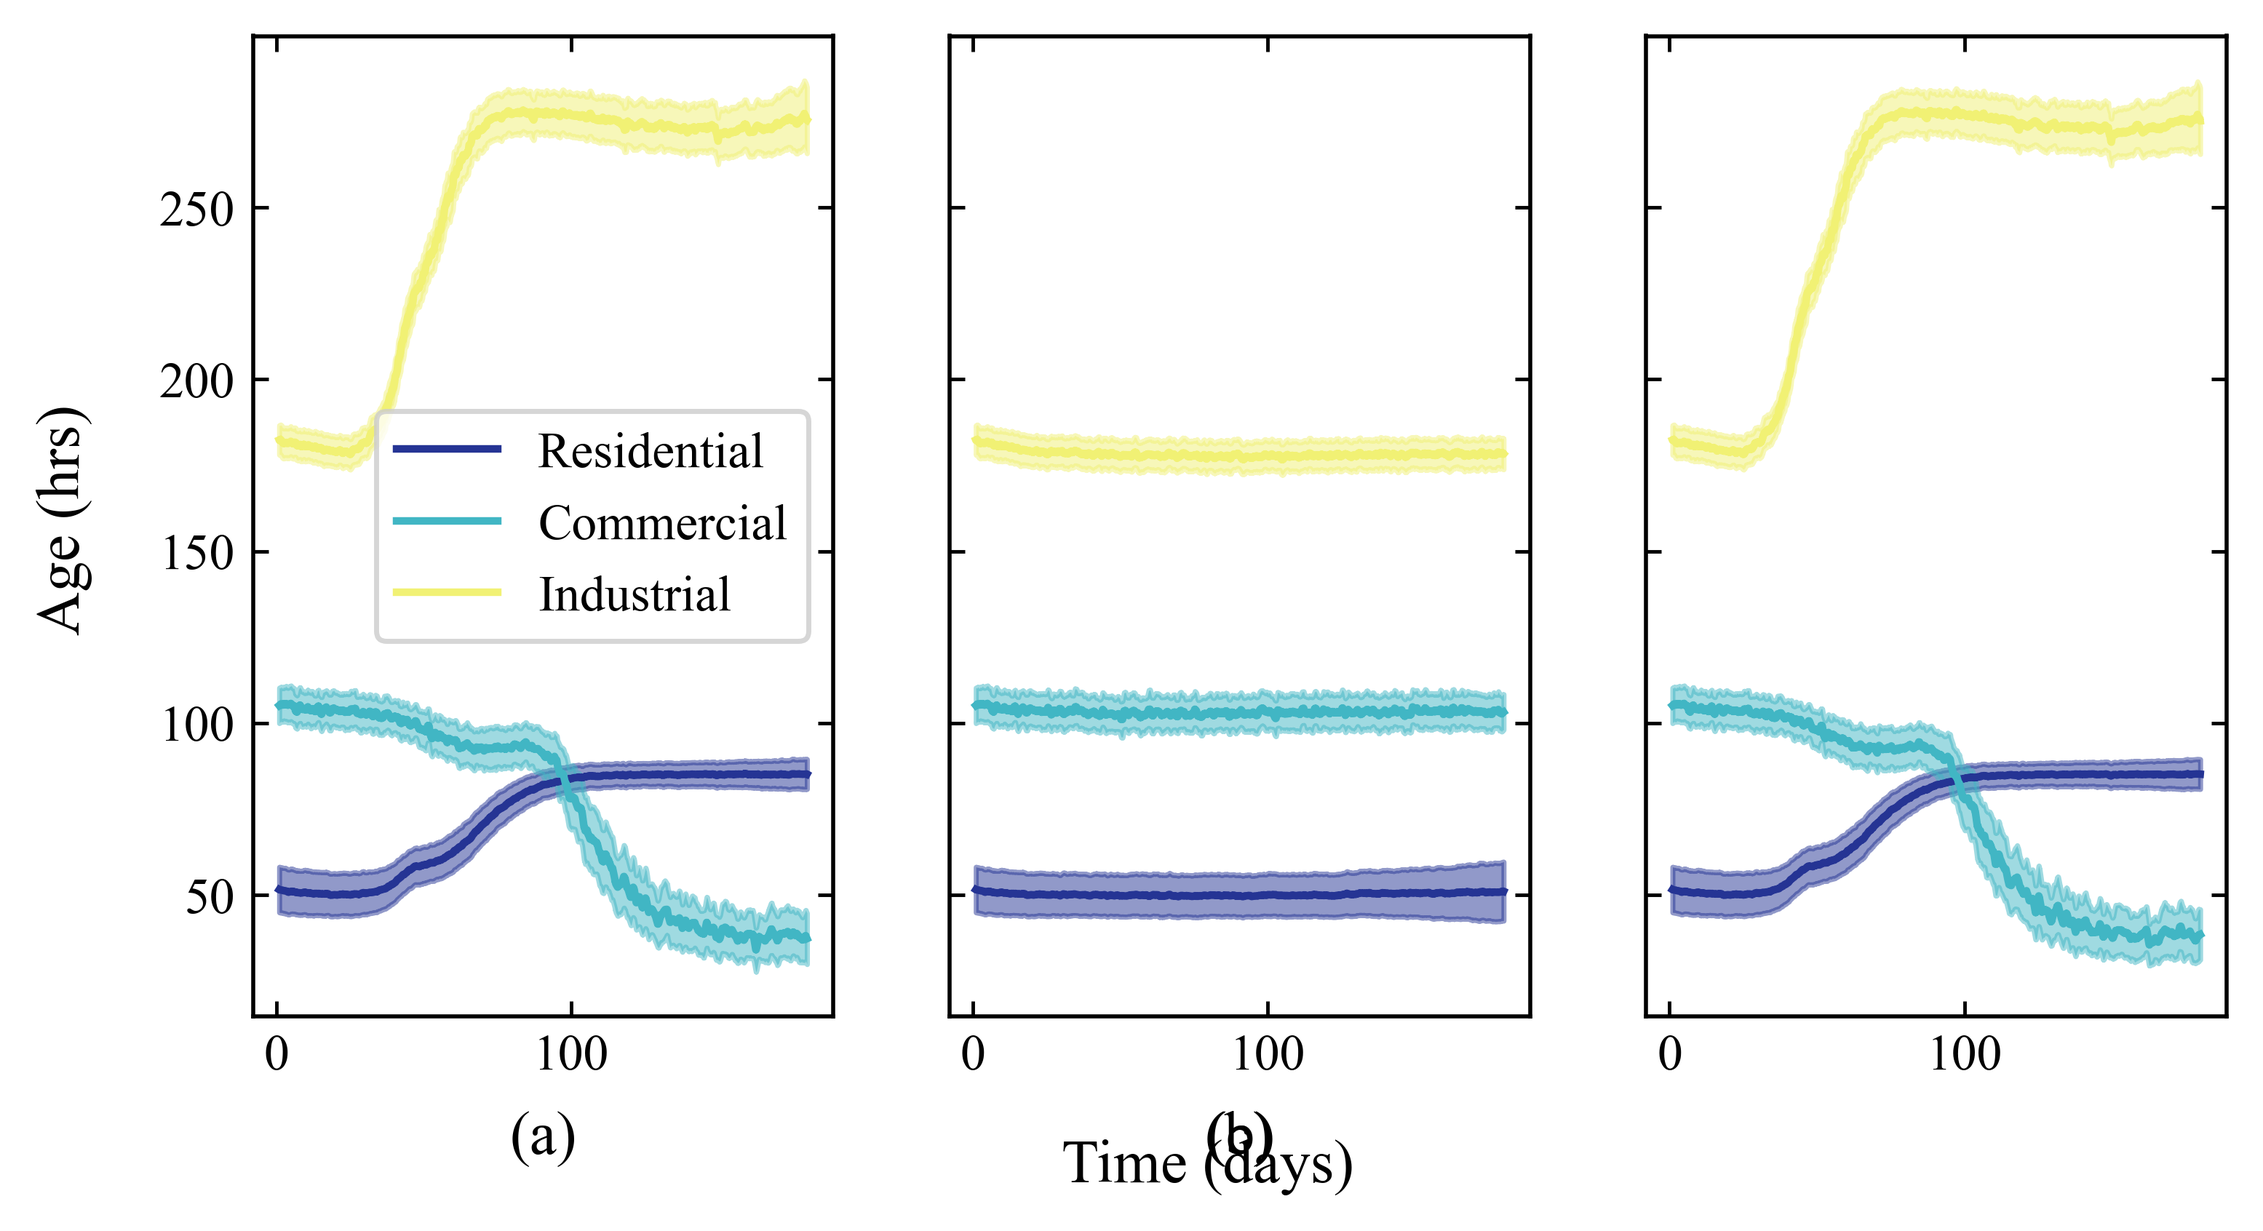
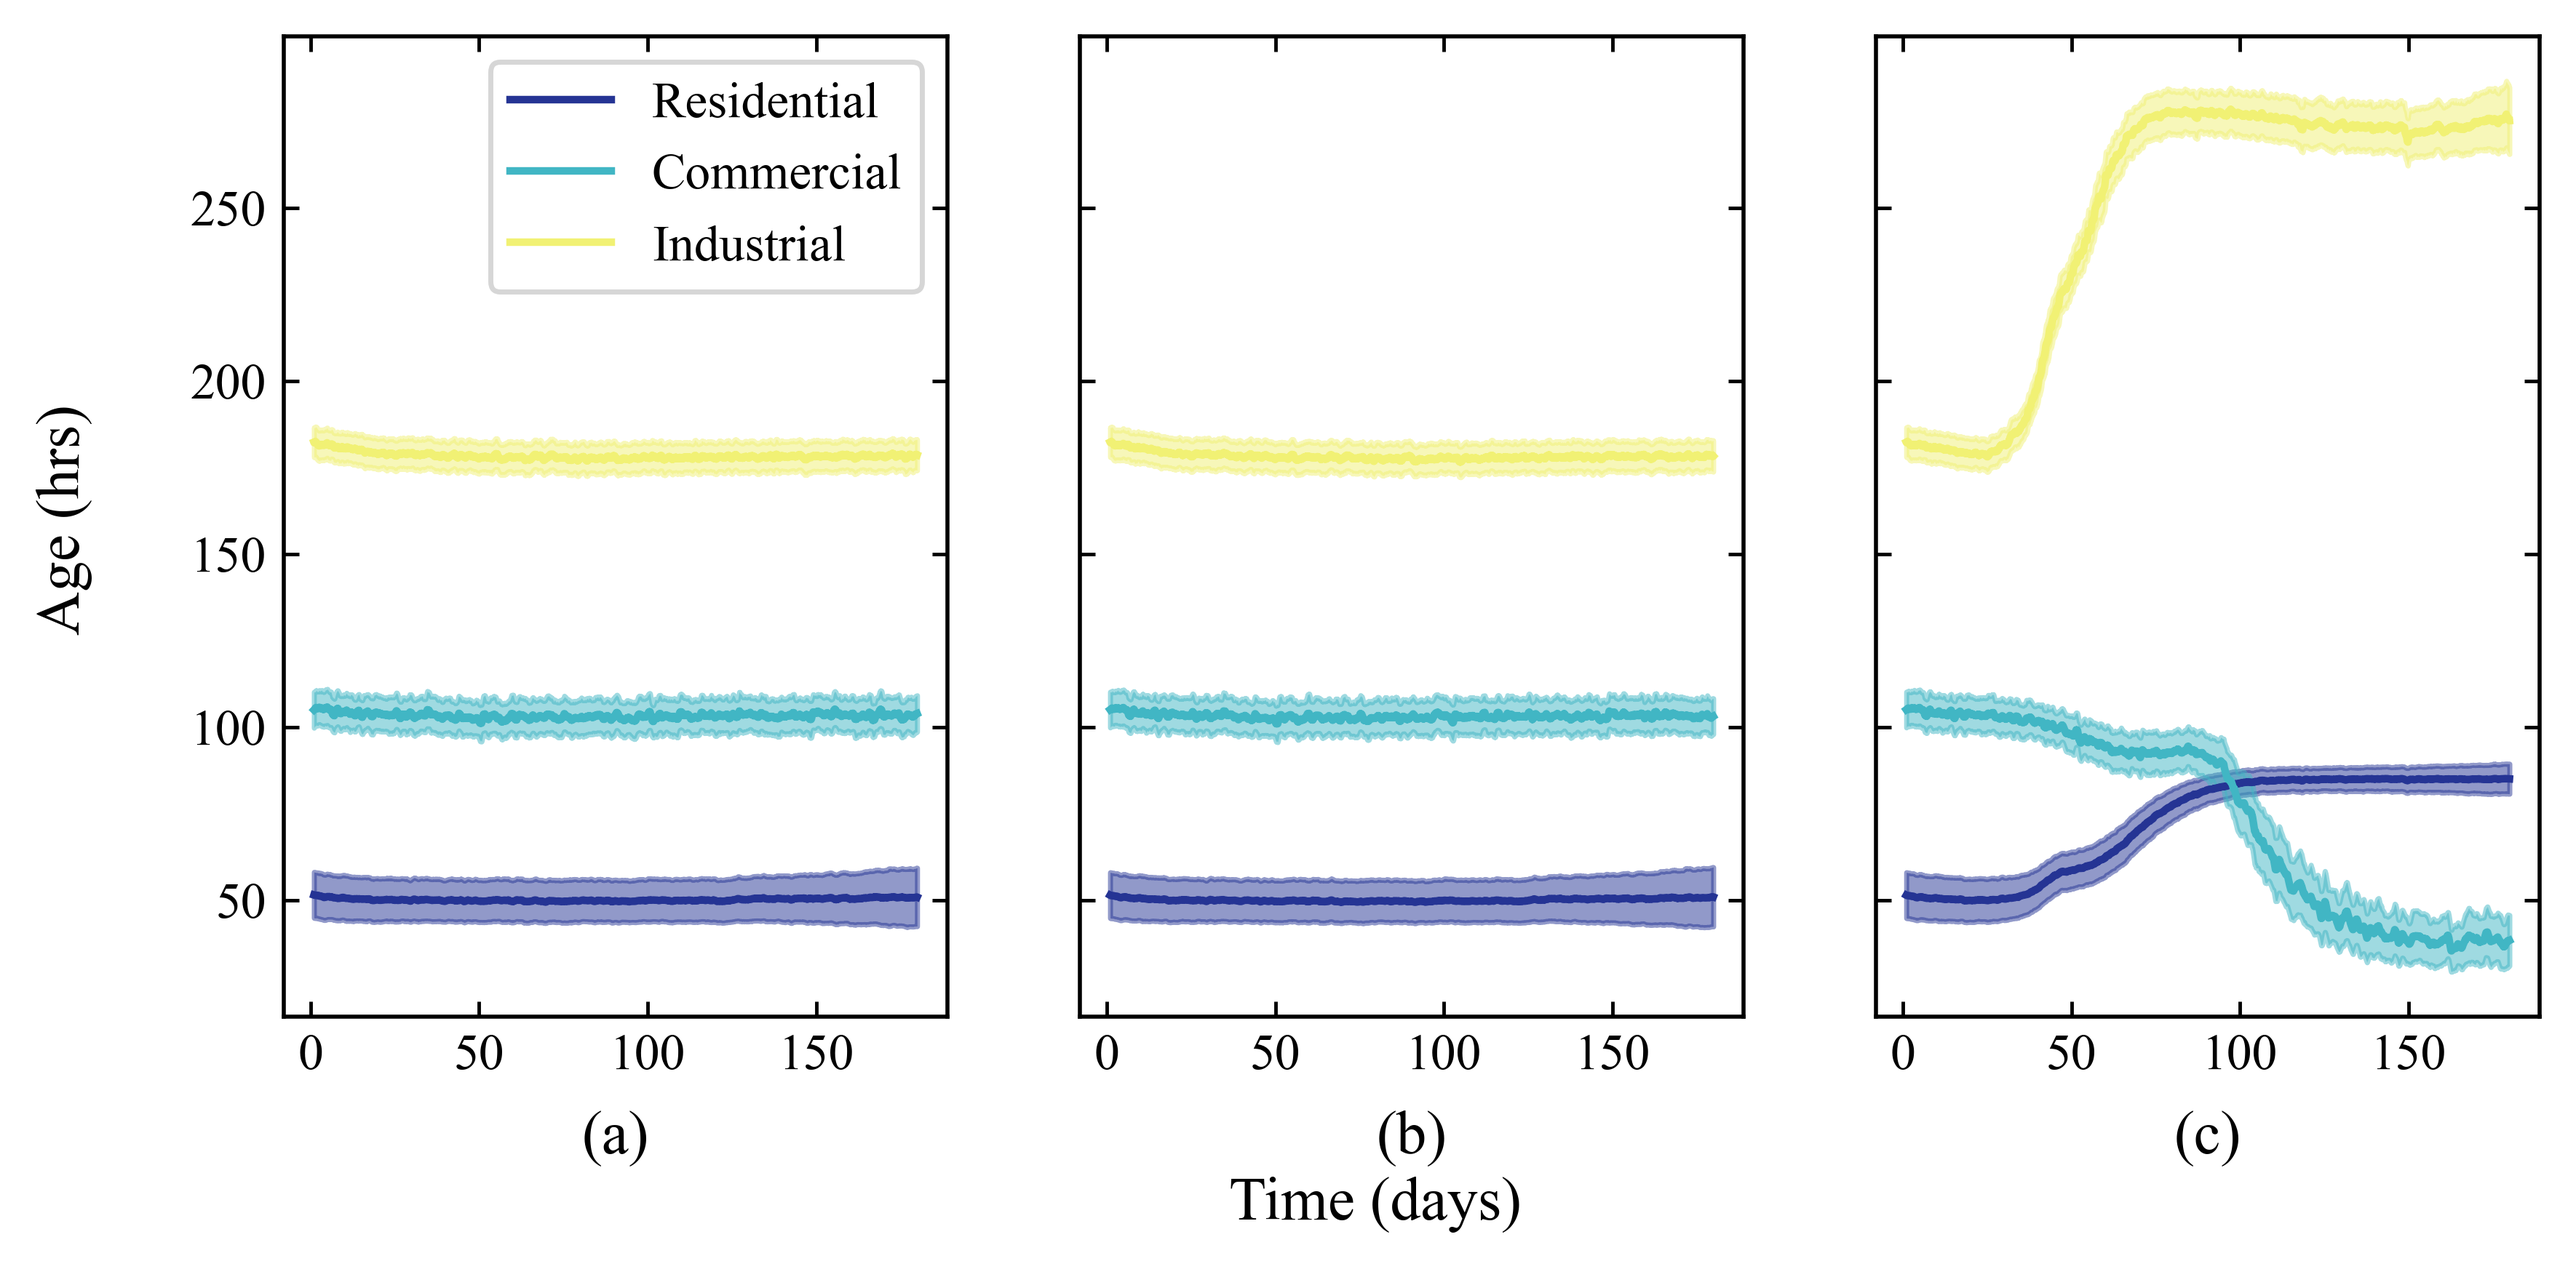
final presentation figures

diff --git a/base.py b/base.py
@@ -235,7 +235,7 @@ class BaseGraphics:
         Manipulate household data to be ready to plot
         '''
         # get base data ready
-        # self.package_household(self.base, self.base_comp_dir, base=True)
+        self.package_household(self.base, self.base_comp_dir, base=True)
 
         # get base+bw data ready
         self.package_household(self.basebw, self.base_bw_comp_dir)
@@ -261,10 +261,13 @@ class BaseGraphics:
         ''' Plot a single figure with the input data '''
         # set multiplier m to ensure plots with 3 or less lines
         # get the correct colors.
-        if data.shape[1] > 3:
+        if isinstance(data, pd.Series):
             m = 1
         else:
-            m = 2
+            if len(data.columns) > 3:
+                m = 1
+            else:
+                m = 2
 
         # plot each column of data
         for i, col in enumerate(cols):
@@ -573,7 +576,7 @@ class Graphics(BaseGraphics):
             x for x in np.arange(0, days, days / len(self.pm['avg_demand']))
         ])
         self.x_values_day = np.array([
-            x for x in range(183)
+            x for x in range(180)
         ])
 
         ''' Get times list: first time is max wfh, 75% wfh, 50% wfh, 25% wfh '''
@@ -624,10 +627,8 @@ class Graphics(BaseGraphics):
         ax = plt.subplot()
         self.make_avg_plot(ax, sector_dem, sector_dem_err, cols, self.x_values_hour) 
         ax1 = ax.twinx()
-        self.make_avg_plot(
-            ax1, self.pm['avg_wfh'].mean(axis=1), self.pm['var_wfh'].mean(axis=1),
-            ['WFH'], self.x_values_hour, show_labels=False
-        )
+        ax1.plot(self.x_values_day, self.pm['avg_wfh'].mean(axis=1) * 100, color='k')
+        ax.legend(['Residential', 'Commercial', 'Industrial'])
         ax.set_xlabel('Time (days)')
         ax.set_ylabel('Demand (L)')
         ax1.set_ylabel('Percent of Population WFH')
@@ -702,10 +703,10 @@ class Graphics(BaseGraphics):
         axes[1].text(0.5, -0.14, "(b)", size=12, ha="center",
                      transform=axes[1].transAxes)
         axes[2].text(0.5, -0.14, "(c)", size=12, ha="center",
-                     transform=axes[1].transAxes)
-        fig.supxlabel('Time (days)', y=-0.03)
+                     transform=axes[2].transAxes)
+        fig.supxlabel('Time (days)', y=-0.06)
         fig.supylabel('Age (hrs)', x=0.04)
-        plt.gcf().set_size_inches(7, 3.5)
+        plt.gcf().set_size_inches(8, 3.5)
 
         plt.savefig(self.pub_loc + 'mean_age_sector.' + self.format,
                     format=self.format, bbox_inches='tight')
@@ -962,8 +963,8 @@ class Graphics(BaseGraphics):
         # pm_mean_cost = pm_tot_cost.iloc[-1, :].mean()
         # base_mean_cost = base_tot_cost.iloc[-1, :].mean()
 
-        # level_cowpi_b = self.base['cowpi'].groupby('level').mean()['cowpi']
-        # print(level_cowpi_b)
+        level_cowpi_b = self.base['cowpi'].groupby('level').mean()['cowpi']
+        print(level_cowpi_b)
 
         level_cowpi_bbw = self.basebw['cowpi'].groupby('level').mean()['cowpi']
         print(level_cowpi_bbw)
@@ -972,8 +973,8 @@ class Graphics(BaseGraphics):
         print(level_cowpi_p)
 
         cost_comp = pd.DataFrame(
-            # {'Base': level_cowpi_b,
-            {'Base+BW': level_cowpi_bbw,
+            {'Base': level_cowpi_b,
+             'Base+BW': level_cowpi_bbw,
              'Social Distancing+BW': level_cowpi_p},
             index=[0, 1, 2, 3]
         )
@@ -987,7 +988,7 @@ class Graphics(BaseGraphics):
         print(cost_comp)
 
         cost_comp.plot(kind='bar', log=True, ylabel='% of Income', rot=0)
-        plt.gcf().set_size_inches(3, 3.5)
+        plt.gcf().set_size_inches(3.5, 3.5)
         plt.savefig(self.pub_loc + 'cow_comparison.' + self.format,
                     format=self.format, bbox_inches='tight')
         plt.close()
@@ -996,7 +997,7 @@ class Graphics(BaseGraphics):
         cost_comp = cost_comp.iloc[1:4, :]
         print(cost_comp)
         cost_comp.plot(kind='bar', ylabel='% of Income', rot=0)
-        plt.gcf().set_size_inches(3, 3.5)
+        plt.gcf().set_size_inches(3.5, 3.5)
         plt.savefig(self.pub_loc + 'cow_comparison_no_low_in.' + self.format,
                     format=self.format, bbox_inches='tight')
         plt.close()

diff --git a/graphics.py b/graphics.py
@@ -11,7 +11,7 @@ plots.demand_plots()
 # plots.flow_plots()
 
 ''' Age plots '''
-# plots.age_plots()
+plots.age_plots()
 
 ''' Industrial distance plots '''
 # plots.ind_dist_plots()
@@ -26,7 +26,7 @@ plots.demand_plots()
 # plots.make_equity_plots()
 
 ''' Cost plots '''
-# plots.make_cost_plots()
+plots.make_cost_plots()
 
 ''' Tap water avoidance plots '''
 plots.make_twa_plots()
